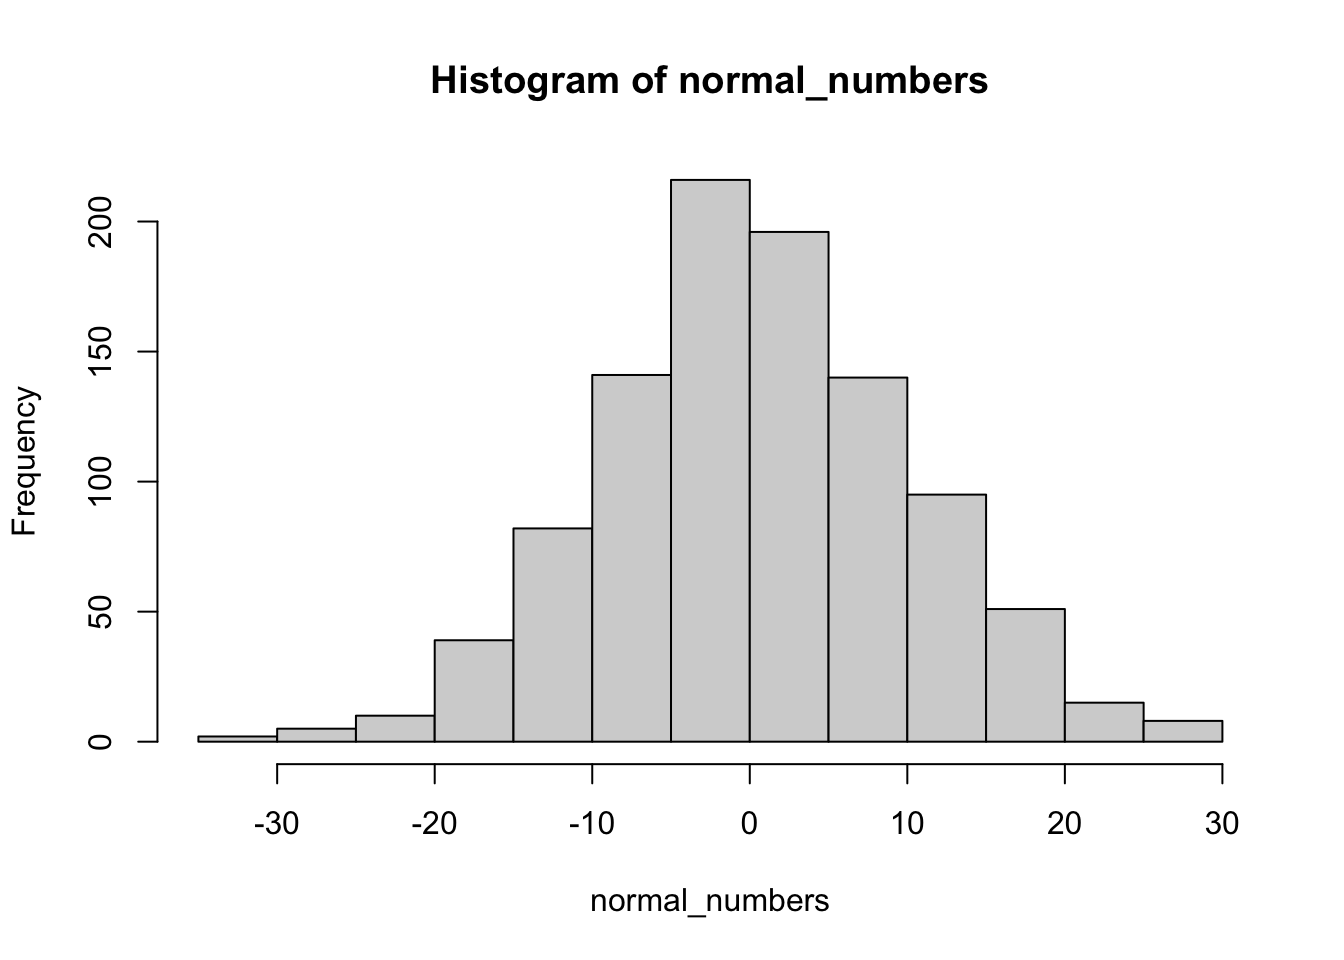
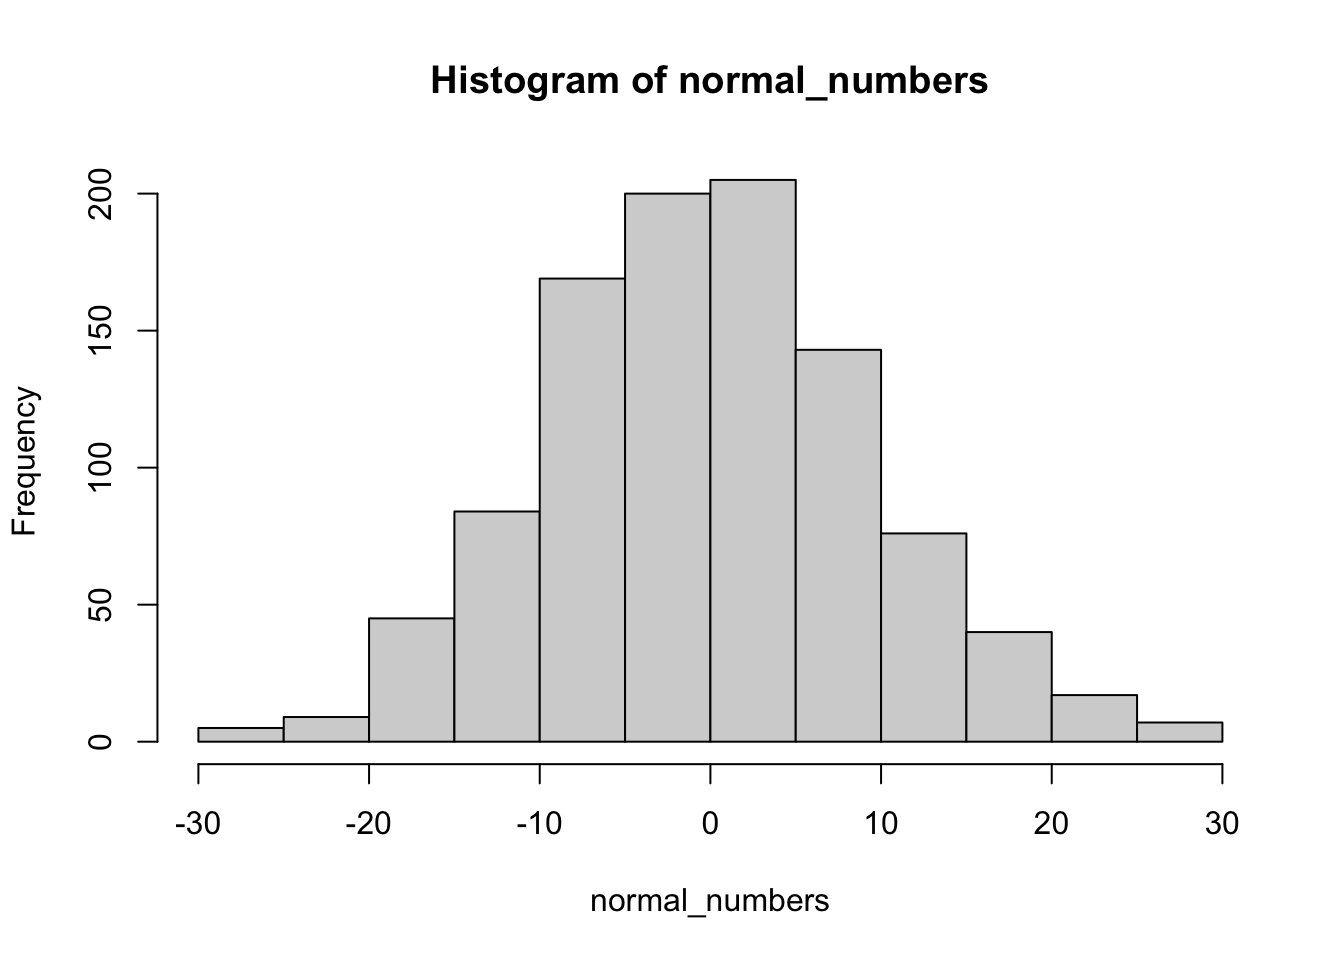
push

diff --git a/docs/posts/Midterm/Midterm.html b/docs/posts/Midterm/Midterm.html
@@ -865,7 +865,7 @@ code span.wa { color: #60a0b0; font-weight: bold; font-style: italic; } /* Warni
 <div class="sourceCode cell-code" id="cb123"><pre class="sourceCode r code-with-copy"><code class="sourceCode r"><span id="cb123-1"><a href="#cb123-1" aria-hidden="true" tabindex="-1"></a><span class="co"># rolling a dice with sample</span></span>
 <span id="cb123-2"><a href="#cb123-2" aria-hidden="true" tabindex="-1"></a><span class="fu">sample</span>(<span class="fu">c</span>(<span class="dv">1</span>,<span class="dv">2</span>,<span class="dv">3</span>,<span class="dv">4</span>,<span class="dv">5</span>,<span class="dv">6</span>),<span class="dv">1</span>)</span></code><button title="Copy to Clipboard" class="code-copy-button"><i class="bi"></i></button></pre></div>
 <div class="cell-output cell-output-stdout">
-<pre><code>[1] 6</code></pre>
+<pre><code>[1] 5</code></pre>
 </div>
 <div class="sourceCode cell-code" id="cb125"><pre class="sourceCode r code-with-copy"><code class="sourceCode r"><span id="cb125-1"><a href="#cb125-1" aria-hidden="true" tabindex="-1"></a><span class="co">#&gt; [1] 5</span></span>
 <span id="cb125-2"><a href="#cb125-2" aria-hidden="true" tabindex="-1"></a><span class="fu">sample</span>(<span class="fu">c</span>(<span class="dv">1</span>,<span class="dv">2</span>,<span class="dv">3</span>,<span class="dv">4</span>,<span class="dv">5</span>,<span class="dv">6</span>),<span class="dv">1</span>)</span></code><button title="Copy to Clipboard" class="code-copy-button"><i class="bi"></i></button></pre></div>
@@ -875,7 +875,7 @@ code span.wa { color: #60a0b0; font-weight: bold; font-style: italic; } /* Warni
 <div class="sourceCode cell-code" id="cb127"><pre class="sourceCode r code-with-copy"><code class="sourceCode r"><span id="cb127-1"><a href="#cb127-1" aria-hidden="true" tabindex="-1"></a><span class="co">#&gt; [1] 4</span></span>
 <span id="cb127-2"><a href="#cb127-2" aria-hidden="true" tabindex="-1"></a><span class="fu">sample</span>(<span class="fu">c</span>(<span class="dv">1</span>,<span class="dv">2</span>,<span class="dv">3</span>,<span class="dv">4</span>,<span class="dv">5</span>,<span class="dv">6</span>),<span class="dv">1</span>)</span></code><button title="Copy to Clipboard" class="code-copy-button"><i class="bi"></i></button></pre></div>
 <div class="cell-output cell-output-stdout">
-<pre><code>[1] 3</code></pre>
+<pre><code>[1] 5</code></pre>
 </div>
 <div class="sourceCode cell-code" id="cb129"><pre class="sourceCode r code-with-copy"><code class="sourceCode r"><span id="cb129-1"><a href="#cb129-1" aria-hidden="true" tabindex="-1"></a><span class="co">#&gt; [1] 4</span></span></code><button title="Copy to Clipboard" class="code-copy-button"><i class="bi"></i></button></pre></div>
 </div>
@@ -890,7 +890,7 @@ code span.wa { color: #60a0b0; font-weight: bold; font-style: italic; } /* Warni
 <span id="cb130-6"><a href="#cb130-6" aria-hidden="true" tabindex="-1"></a>  number_of_rolls <span class="ot">&lt;-</span> <span class="dv">0</span></span>
 <span id="cb130-7"><a href="#cb130-7" aria-hidden="true" tabindex="-1"></a>  position <span class="ot">&lt;-</span> <span class="dv">0</span>  <span class="co"># start at the beginning of the board</span></span>
 <span id="cb130-8"><a href="#cb130-8" aria-hidden="true" tabindex="-1"></a>  </span>
-<span id="cb130-9"><a href="#cb130-9" aria-hidden="true" tabindex="-1"></a>  <span class="cf">while</span>(position <span class="sc">&lt;</span> <span class="dv">25</span>) {</span>
+<span id="cb130-9"><a href="#cb130-9" aria-hidden="true" tabindex="-1"></a>  <span class="cf">while</span>(total_sum <span class="sc">&lt;</span> <span class="dv">25</span>) {</span>
 <span id="cb130-10"><a href="#cb130-10" aria-hidden="true" tabindex="-1"></a>    number_of_rolls <span class="ot">&lt;-</span> number_of_rolls <span class="sc">+</span> <span class="dv">1</span></span>
 <span id="cb130-11"><a href="#cb130-11" aria-hidden="true" tabindex="-1"></a>    roll <span class="ot">&lt;-</span> <span class="fu">sample</span>(<span class="fu">c</span>(<span class="dv">1</span>, <span class="dv">2</span>, <span class="dv">3</span>, <span class="dv">4</span>, <span class="dv">5</span>, <span class="dv">6</span>), <span class="dv">1</span>)</span>
 <span id="cb130-12"><a href="#cb130-12" aria-hidden="true" tabindex="-1"></a>    total_sum <span class="ot">&lt;-</span> total_sum <span class="sc">+</span> roll</span>
@@ -907,53 +907,13 @@ code span.wa { color: #60a0b0; font-weight: bold; font-style: italic; } /* Warni
 <span id="cb130-23"><a href="#cb130-23" aria-hidden="true" tabindex="-1"></a>  number_of_rolls</span>
 <span id="cb130-24"><a href="#cb130-24" aria-hidden="true" tabindex="-1"></a>}</span>
 <span id="cb130-25"><a href="#cb130-25" aria-hidden="true" tabindex="-1"></a></span>
-<span id="cb130-26"><a href="#cb130-26" aria-hidden="true" tabindex="-1"></a><span class="co"># Record the results from multiple simulations</span></span>
-<span id="cb130-27"><a href="#cb130-27" aria-hidden="true" tabindex="-1"></a><span class="fu">set.seed</span>(<span class="dv">123</span>)</span>
-<span id="cb130-28"><a href="#cb130-28" aria-hidden="true" tabindex="-1"></a>save_rolls <span class="ot">&lt;-</span> <span class="fu">replicate</span>(<span class="dv">100</span>, <span class="fu">play_game</span>())</span>
-<span id="cb130-29"><a href="#cb130-29" aria-hidden="true" tabindex="-1"></a></span>
-<span id="cb130-30"><a href="#cb130-30" aria-hidden="true" tabindex="-1"></a><span class="co"># Estimate the average number of rolls needed to successfully complete the game</span></span>
-<span id="cb130-31"><a href="#cb130-31" aria-hidden="true" tabindex="-1"></a><span class="fu">mean</span>(save_rolls)</span></code><button title="Copy to Clipboard" class="code-copy-button"><i class="bi"></i></button></pre></div>
+<span id="cb130-26"><a href="#cb130-26" aria-hidden="true" tabindex="-1"></a></span>
+<span id="cb130-27"><a href="#cb130-27" aria-hidden="true" tabindex="-1"></a>save_rolls <span class="ot">&lt;-</span> <span class="fu">replicate</span>(<span class="dv">1000</span>, <span class="fu">play_game</span>())</span>
+<span id="cb130-28"><a href="#cb130-28" aria-hidden="true" tabindex="-1"></a></span>
+<span id="cb130-29"><a href="#cb130-29" aria-hidden="true" tabindex="-1"></a><span class="co"># Estimate the average number of rolls needed to successfully complete the game</span></span>
+<span id="cb130-30"><a href="#cb130-30" aria-hidden="true" tabindex="-1"></a><span class="fu">mean</span>(save_rolls)</span></code><button title="Copy to Clipboard" class="code-copy-button"><i class="bi"></i></button></pre></div>
 <div class="cell-output cell-output-stdout">
-<pre><code>[1] 7.71</code></pre>
-</div>
-</div>
-<div class="cell">
-<div class="sourceCode cell-code" id="cb132"><pre class="sourceCode r code-with-copy"><code class="sourceCode r"><span id="cb132-1"><a href="#cb132-1" aria-hidden="true" tabindex="-1"></a>save_rolls<span class="ot">&lt;-</span> <span class="fu">c</span>()</span>
-<span id="cb132-2"><a href="#cb132-2" aria-hidden="true" tabindex="-1"></a><span class="cf">for</span>(sims <span class="cf">in</span> <span class="dv">1</span><span class="sc">:</span><span class="dv">100</span>){</span>
-<span id="cb132-3"><a href="#cb132-3" aria-hidden="true" tabindex="-1"></a>  curpos<span class="ot">&lt;-</span><span class="dv">0</span> </span>
-<span id="cb132-4"><a href="#cb132-4" aria-hidden="true" tabindex="-1"></a>  number_of_rolls<span class="ot">&lt;-</span><span class="dv">0</span></span>
-<span id="cb132-5"><a href="#cb132-5" aria-hidden="true" tabindex="-1"></a></span>
-<span id="cb132-6"><a href="#cb132-6" aria-hidden="true" tabindex="-1"></a><span class="cf">while</span>(curpos <span class="sc">&lt;</span> <span class="dv">25</span>){</span>
-<span id="cb132-7"><a href="#cb132-7" aria-hidden="true" tabindex="-1"></a>  curpos <span class="ot">&lt;-</span> curpos<span class="sc">+</span><span class="fu">sample</span>(<span class="fu">c</span>(<span class="dv">1</span>,<span class="dv">2</span>,<span class="dv">3</span>,<span class="dv">4</span>,<span class="dv">5</span>, <span class="dv">6</span>) ,<span class="dv">1</span>)</span>
-<span id="cb132-8"><a href="#cb132-8" aria-hidden="true" tabindex="-1"></a></span>
-<span id="cb132-9"><a href="#cb132-9" aria-hidden="true" tabindex="-1"></a> <span class="cf">if</span> ( curpos <span class="sc">==</span> <span class="dv">1</span>){</span>
-<span id="cb132-10"><a href="#cb132-10" aria-hidden="true" tabindex="-1"></a>curpos<span class="ot">&lt;-</span><span class="dv">6</span></span>
-<span id="cb132-11"><a href="#cb132-11" aria-hidden="true" tabindex="-1"></a>}</span>
-<span id="cb132-12"><a href="#cb132-12" aria-hidden="true" tabindex="-1"></a><span class="cf">if</span> (curpos <span class="sc">==</span> <span class="dv">6</span>) {</span>
-<span id="cb132-13"><a href="#cb132-13" aria-hidden="true" tabindex="-1"></a>  curpos<span class="ot">&lt;-</span><span class="dv">9</span></span>
-<span id="cb132-14"><a href="#cb132-14" aria-hidden="true" tabindex="-1"></a>}</span>
-<span id="cb132-15"><a href="#cb132-15" aria-hidden="true" tabindex="-1"></a></span>
-<span id="cb132-16"><a href="#cb132-16" aria-hidden="true" tabindex="-1"></a><span class="cf">if</span> ( curpos <span class="sc">==</span> <span class="dv">9</span>) {</span>
-<span id="cb132-17"><a href="#cb132-17" aria-hidden="true" tabindex="-1"></a> curpos<span class="ot">&lt;-</span> <span class="dv">12</span></span>
-<span id="cb132-18"><a href="#cb132-18" aria-hidden="true" tabindex="-1"></a>}</span>
-<span id="cb132-19"><a href="#cb132-19" aria-hidden="true" tabindex="-1"></a><span class="cf">if</span> ( curpos <span class="sc">==</span> <span class="dv">12</span>) </span>
-<span id="cb132-20"><a href="#cb132-20" aria-hidden="true" tabindex="-1"></a> curpos<span class="ot">&lt;-</span><span class="dv">17</span></span>
-<span id="cb132-21"><a href="#cb132-21" aria-hidden="true" tabindex="-1"></a><span class="cf">if</span> ( curpos <span class="sc">==</span><span class="dv">17</span>) {</span>
-<span id="cb132-22"><a href="#cb132-22" aria-hidden="true" tabindex="-1"></a> curpos<span class="ot">&lt;-</span><span class="dv">20</span></span>
-<span id="cb132-23"><a href="#cb132-23" aria-hidden="true" tabindex="-1"></a>}</span>
-<span id="cb132-24"><a href="#cb132-24" aria-hidden="true" tabindex="-1"></a><span class="cf">if</span> ( curpos <span class="sc">==</span> <span class="dv">20</span>) {</span>
-<span id="cb132-25"><a href="#cb132-25" aria-hidden="true" tabindex="-1"></a> curpos<span class="ot">&lt;-</span><span class="dv">24</span></span>
-<span id="cb132-26"><a href="#cb132-26" aria-hidden="true" tabindex="-1"></a>}</span>
-<span id="cb132-27"><a href="#cb132-27" aria-hidden="true" tabindex="-1"></a><span class="cf">if</span> (curpos<span class="sc">==</span><span class="dv">24</span>){</span>
-<span id="cb132-28"><a href="#cb132-28" aria-hidden="true" tabindex="-1"></a> curpos<span class="ot">&lt;-</span><span class="dv">84</span></span>
-<span id="cb132-29"><a href="#cb132-29" aria-hidden="true" tabindex="-1"></a>}</span>
-<span id="cb132-30"><a href="#cb132-30" aria-hidden="true" tabindex="-1"></a>number_of_rolls <span class="ot">&lt;-</span> number_of_rolls<span class="sc">+</span><span class="dv">1</span></span>
-<span id="cb132-31"><a href="#cb132-31" aria-hidden="true" tabindex="-1"></a>}</span>
-<span id="cb132-32"><a href="#cb132-32" aria-hidden="true" tabindex="-1"></a>save_rolls[sims]<span class="ot">&lt;-</span> number_of_rolls</span>
-<span id="cb132-33"><a href="#cb132-33" aria-hidden="true" tabindex="-1"></a>}</span>
-<span id="cb132-34"><a href="#cb132-34" aria-hidden="true" tabindex="-1"></a><span class="fu">mean</span>(save_rolls)</span></code><button title="Copy to Clipboard" class="code-copy-button"><i class="bi"></i></button></pre></div>
-<div class="cell-output cell-output-stdout">
-<pre><code>[1] 2.88</code></pre>
+<pre><code>[1] 7.572</code></pre>
 </div>
 </div>
 

diff --git a/docs/index.html b/docs/index.html
@@ -166,7 +166,7 @@ ul.task-list li input[type="checkbox"] {
 
 <div class="quarto-listing quarto-listing-container-default" id="listing-listing">
 <div class="list quarto-listing-default">
-<div class="quarto-post image-right" data-index="0" data-categories="notes" data-listing-date-sort="1680235200000" data-listing-file-modified-sort="1680296186816" data-listing-reading-time-sort="8.075">
+<div class="quarto-post image-right" data-index="0" data-categories="notes" data-listing-date-sort="1680235200000" data-listing-file-modified-sort="1680733477537" data-listing-reading-time-sort="7.765">
 <div class="thumbnail">
 <p><a href="./posts/Midterm/Midterm.html"> <img src="./posts/Midterm/logo.png" class="thumnail-image"> </a></p>
 </div>
